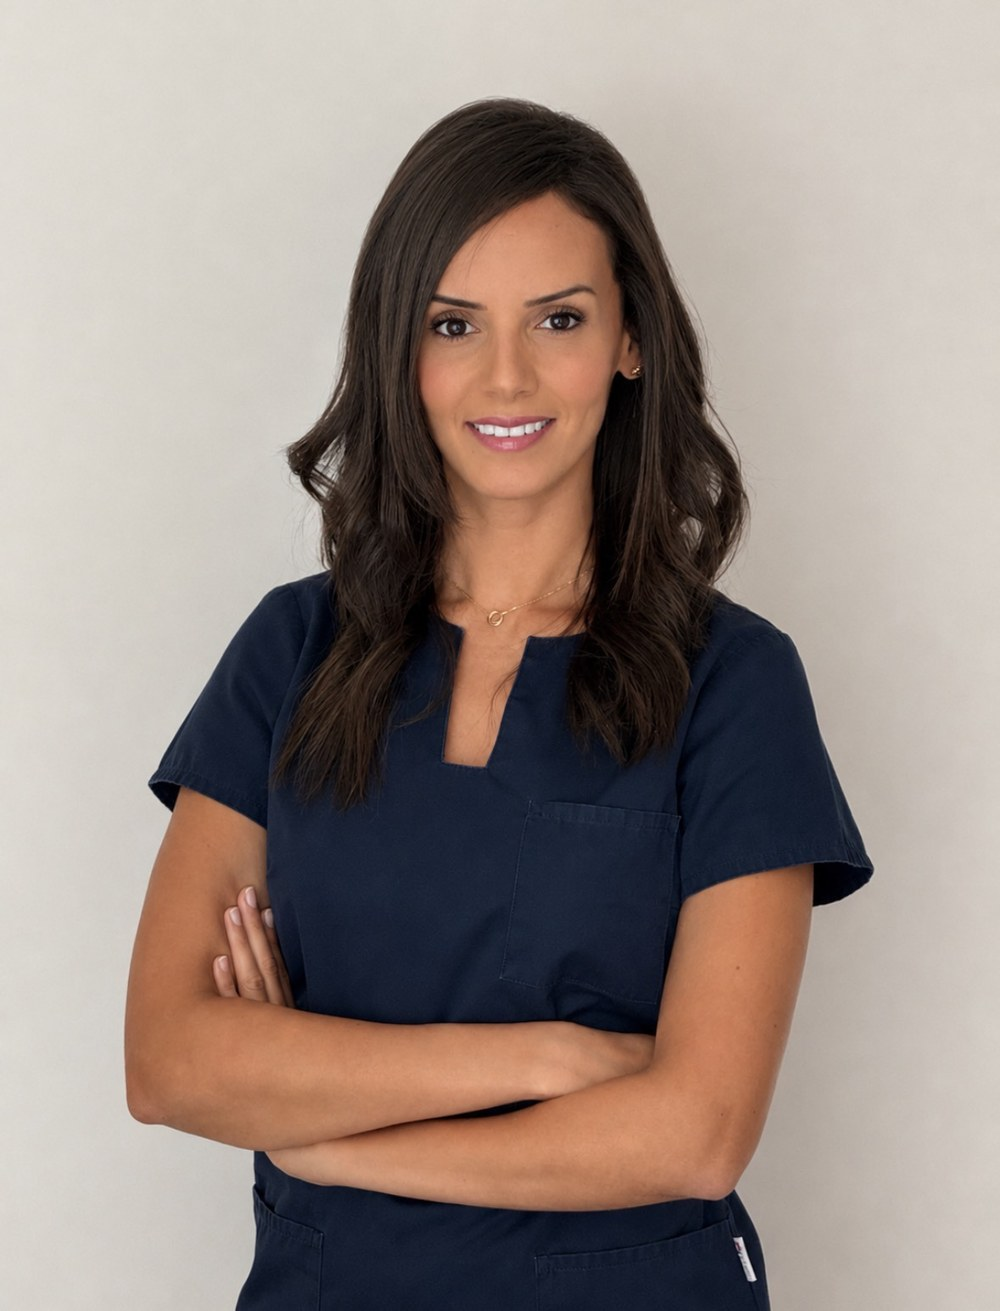
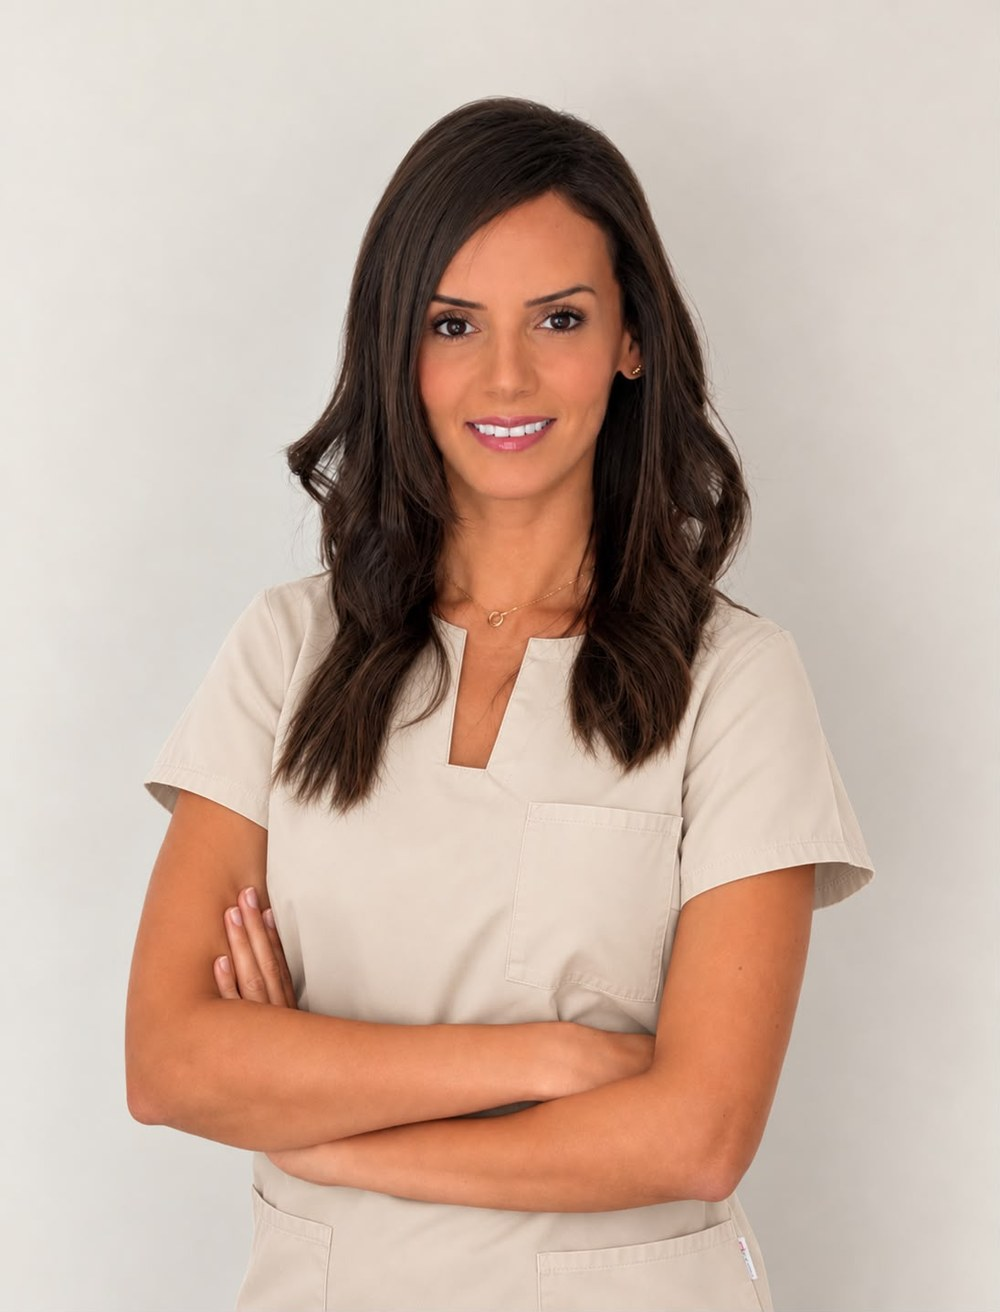
Suppression des mentions d'exclusivité + nouvelle photo du Dr IBN MEJD
- Suppression/reformulation de toutes les occurrences de "exclusif /
  exclusive / exclusivement" sur l'ensemble du site (tagline du logo,
  balises title/og/meta, JSON-LD, textes de sections, footer, page
  confidentialité). Recherche globale finale : plus aucune occurrence.
- Phrase de présentation du Dr Yamina IBN MEJD (accueil) remplacée par
  le texte exact demandé.
- Paragraphe de description en pied de page remplacé par le même texte
  exact, sur les 8 pages du site.
- Nouvelle photo portrait du Dr Yamina IBN MEJD (tenue blanche),
  intégrée sous le même nom de fichier ; cadrage et dimensions
  inchangés (contrôlés par le CSS existant, non modifié).

diff --git a/index.html b/index.html
@@ -3,11 +3,11 @@
 <head>
 <meta charset="UTF-8">
 <meta name="viewport" content="width=device-width, initial-scale=1">
-<title>Cabinet Orthéna — Orthodontie exclusive à La Talaudière | Dr Yamina IBN MEJD</title>
+<title>Cabinet Orthéna — Orthodontie à La Talaudière | Dr Yamina IBN MEJD</title>
 <meta name="description" content="Cabinet d'orthodontie du Dr Yamina IBN MEJD au Pôle Santé Victor Hugo à La Talaudière. Prise en charge de l'orthodontie des enfants et des adolescents, dans un cadre chaleureux et un plateau technique numérique.">
 <link rel="canonical" href="index.html">
 <meta property="og:type" content="website">
-<meta property="og:title" content="Cabinet Orthéna — Orthodontie exclusive">
+<meta property="og:title" content="Cabinet Orthéna — Orthodontie">
 <meta property="og:description" content="Orthodontie des enfants et des adolescents au Pôle Santé Victor Hugo, La Talaudière — Dr Yamina IBN MEJD.">
 <meta property="og:image" content="assets/img/cabinet-accueil-01-lg.jpg">
 <link rel="icon" type="image/png" sizes="512x512" href="assets/img/favicon-512.png">
@@ -21,7 +21,7 @@
   "@context": "https://schema.org",
   "@type": "Dentist",
   "name": "Cabinet Orthéna",
-  "description": "Cabinet d'orthodontie exclusivement dédié aux enfants et aux adolescents, situé au Pôle Santé Victor Hugo à La Talaudière.",
+  "description": "Cabinet d'orthodontie dédié aux enfants et aux adolescents, situé au Pôle Santé Victor Hugo à La Talaudière.",
   "medicalSpecialty": "Orthodontics",
   "address": {
     "@type": "PostalAddress",
@@ -46,7 +46,7 @@
   <div class="header-inner">
     <a href="index.html" class="brand" aria-label="Cabinet Orthéna — accueil">
       <img src="assets/img/logo-orthena-monogram@400.jpg" alt="Cabinet Orthéna" width="52" height="52">
-      <span class="brand-text">Cabinet Orthéna<small>Orthodontie exclusive</small></span>
+      <span class="brand-text">Cabinet Orthéna<small>Orthodontie</small></span>
     </a>
     <nav class="main-nav" aria-label="Navigation principale">
       <ul>
@@ -99,8 +99,8 @@
     </div>
     <div class="hero-content">
       <p class="eyebrow">Cabinet d'orthodontie — La Talaudière</p>
-      <h1 class="hero-title">Cabinet Orthéna<br><em>Orthodontie exclusive, enfants &amp; adolescents</em></h1>
-      <p class="hero-sub">Le Dr Yamina IBN MEJD consacre son exercice exclusivement à l'orthodontie des enfants et des adolescents, dans un cadre pensé pour accompagner chaque patient et sa famille avec rigueur, douceur et disponibilité.</p>
+      <h1 class="hero-title">Cabinet Orthéna<br><em>Orthodontie enfants &amp; adolescents</em></h1>
+      <p class="hero-sub">Le Dr Yamina IBN MEJD oriente sa pratique aux actes d'orthodontie pour enfants et adolescents, dans un cadre pensé pour accompagner chaque patient et sa famille avec rigueur, douceur et disponibilité.</p>
       <div class="hero-actions">
         <a href="https://www.doctolib.fr/dentiste/la-talaudiere/yamina-ibn-mejd" data-doctolib class="btn btn--primary">Prendre rendez-vous</a>
         <a href="cabinet-equipe.html" class="btn btn--ghost">Découvrir le cabinet</a>
@@ -121,7 +121,7 @@
       </div>
       <div class="intro-columns">
         <div class="intro-col intro-col--lede reveal reveal--left">
-          <p class="lede">Situé au sein du Pôle Santé Victor Hugo à La Talaudière, le Cabinet Orthéna du Dr Yamina IBN MEJD est dédié exclusivement à l'orthodontie des enfants et des adolescents.</p>
+          <p class="lede">Situé au sein du Pôle Santé Victor Hugo à La Talaudière, le Cabinet Orthéna du Dr Yamina IBN MEJD est dédié à l'orthodontie des enfants et des adolescents.</p>
         </div>
         <div class="intro-col reveal reveal--right reveal-delay-1">
           <p>Pensé dans les moindres détails, le cabinet a été conçu pour offrir aux patients et à leur famille un environnement chaleureux et apaisant. Il s'appuie sur des technologies innovantes et des équipements performants afin d'optimiser chaque étape du diagnostic et du traitement.</p>
@@ -187,9 +187,9 @@
       <div class="footer-brand-col">
         <div class="footer-brand">
           <img src="assets/img/logo-orthena-monogram@400.jpg" alt="Cabinet Orthéna" width="54" height="54">
-          <span class="footer-brand-text">Cabinet Orthéna<small>Orthodontie exclusive</small></span>
+          <span class="footer-brand-text">Cabinet Orthéna<small>Orthodontie</small></span>
         </div>
-        <p class="footer-desc">Cabinet d'orthodontie dédié exclusivement aux enfants et aux adolescents, au sein du Pôle Santé Victor Hugo à La Talaudière.</p>
+        <p class="footer-desc">Le Dr Yamina IBN MEJD oriente sa pratique aux actes d'orthodontie pour enfants et adolescents, dans un cadre pensé pour accompagner chaque patient et sa famille avec rigueur, douceur et disponibilité.</p>
         <div class="footer-cta"><a href="https://www.doctolib.fr/dentiste/la-talaudiere/yamina-ibn-mejd" data-doctolib class="btn btn--on-dark btn--sm">Prendre rendez-vous</a></div>
       </div>
       <div class="footer-col">

diff --git a/confidentialite.html b/confidentialite.html
@@ -22,7 +22,7 @@
   <div class="header-inner">
     <a href="index.html" class="brand" aria-label="Cabinet Orthéna — accueil">
       <img src="assets/img/logo-orthena-monogram@400.jpg" alt="Cabinet Orthéna" width="52" height="52">
-      <span class="brand-text">Cabinet Orthéna<small>Orthodontie exclusive</small></span>
+      <span class="brand-text">Cabinet Orthéna<small>Orthodontie</small></span>
     </a>
     <nav class="main-nav" aria-label="Navigation principale">
       <ul>
@@ -82,7 +82,7 @@
       </ul>
 
       <h2>Finalités</h2>
-      <p>Ces données sont utilisées exclusivement pour la gestion des rendez-vous, le suivi du dossier patient et l'amélioration de la qualité de la prise en charge.</p>
+      <p>Ces données sont utilisées uniquement pour la gestion des rendez-vous, le suivi du dossier patient et l'amélioration de la qualité de la prise en charge.</p>
 
       <h2>Vos droits</h2>
       <p>Conformément au Règlement Général sur la Protection des Données, vous disposez d'un droit d'accès, de rectification, d'effacement et de limitation du traitement de vos données. Pour exercer ces droits, vous pouvez contacter le cabinet.</p>
@@ -100,9 +100,9 @@
       <div class="footer-brand-col">
         <div class="footer-brand">
           <img src="assets/img/logo-orthena-monogram@400.jpg" alt="Cabinet Orthéna" width="54" height="54">
-          <span class="footer-brand-text">Cabinet Orthéna<small>Orthodontie exclusive</small></span>
+          <span class="footer-brand-text">Cabinet Orthéna<small>Orthodontie</small></span>
         </div>
-        <p class="footer-desc">Cabinet d'orthodontie dédié exclusivement aux enfants et aux adolescents, au sein du Pôle Santé Victor Hugo à La Talaudière.</p>
+        <p class="footer-desc">Le Dr Yamina IBN MEJD oriente sa pratique aux actes d'orthodontie pour enfants et adolescents, dans un cadre pensé pour accompagner chaque patient et sa famille avec rigueur, douceur et disponibilité.</p>
         <div class="footer-cta"><a href="https://www.doctolib.fr/dentiste/la-talaudiere/yamina-ibn-mejd" data-doctolib class="btn btn--on-dark btn--sm">Prendre rendez-vous</a></div>
       </div>
       <div class="footer-col">

diff --git a/cabinet-equipe.html b/cabinet-equipe.html
@@ -21,7 +21,7 @@
   <div class="header-inner">
     <a href="index.html" class="brand" aria-label="Cabinet Orthéna — accueil">
       <img src="assets/img/logo-orthena-monogram@400.jpg" alt="Cabinet Orthéna" width="52" height="52">
-      <span class="brand-text">Cabinet Orthéna<small>Orthodontie exclusive</small></span>
+      <span class="brand-text">Cabinet Orthéna<small>Orthodontie</small></span>
     </a>
     <nav class="main-nav" aria-label="Navigation principale">
       <ul>
@@ -140,7 +140,7 @@
     <div class="container">
       <div class="section-head reveal">
         <p class="eyebrow">L'équipe</p>
-        <h2>Une prise en charge exclusivement dédiée à l'orthodontie</h2>
+        <h2>Une prise en charge dédiée à l'orthodontie</h2>
       </div>
 
       <div class="doctor-block">
@@ -275,9 +275,9 @@
       <div class="footer-brand-col">
         <div class="footer-brand">
           <img src="assets/img/logo-orthena-monogram@400.jpg" alt="Cabinet Orthéna" width="54" height="54">
-          <span class="footer-brand-text">Cabinet Orthéna<small>Orthodontie exclusive</small></span>
+          <span class="footer-brand-text">Cabinet Orthéna<small>Orthodontie</small></span>
         </div>
-        <p class="footer-desc">Cabinet d'orthodontie dédié exclusivement aux enfants et aux adolescents, au sein du Pôle Santé Victor Hugo à La Talaudière.</p>
+        <p class="footer-desc">Le Dr Yamina IBN MEJD oriente sa pratique aux actes d'orthodontie pour enfants et adolescents, dans un cadre pensé pour accompagner chaque patient et sa famille avec rigueur, douceur et disponibilité.</p>
         <div class="footer-cta"><a href="https://www.doctolib.fr/dentiste/la-talaudiere/yamina-ibn-mejd" data-doctolib class="btn btn--on-dark btn--sm">Prendre rendez-vous</a></div>
       </div>
       <div class="footer-col">

diff --git a/contact.html b/contact.html
@@ -21,7 +21,7 @@
   <div class="header-inner">
     <a href="index.html" class="brand" aria-label="Cabinet Orthéna — accueil">
       <img src="assets/img/logo-orthena-monogram@400.jpg" alt="Cabinet Orthéna" width="52" height="52">
-      <span class="brand-text">Cabinet Orthéna<small>Orthodontie exclusive</small></span>
+      <span class="brand-text">Cabinet Orthéna<small>Orthodontie</small></span>
     </a>
     <nav class="main-nav" aria-label="Navigation principale">
       <ul>
@@ -168,9 +168,9 @@
       <div class="footer-brand-col">
         <div class="footer-brand">
           <img src="assets/img/logo-orthena-monogram@400.jpg" alt="Cabinet Orthéna" width="54" height="54">
-          <span class="footer-brand-text">Cabinet Orthéna<small>Orthodontie exclusive</small></span>
+          <span class="footer-brand-text">Cabinet Orthéna<small>Orthodontie</small></span>
         </div>
-        <p class="footer-desc">Cabinet d'orthodontie dédié exclusivement aux enfants et aux adolescents, au sein du Pôle Santé Victor Hugo à La Talaudière.</p>
+        <p class="footer-desc">Le Dr Yamina IBN MEJD oriente sa pratique aux actes d'orthodontie pour enfants et adolescents, dans un cadre pensé pour accompagner chaque patient et sa famille avec rigueur, douceur et disponibilité.</p>
         <div class="footer-cta"><a href="https://www.doctolib.fr/dentiste/la-talaudiere/yamina-ibn-mejd" data-doctolib class="btn btn--on-dark btn--sm">Prendre rendez-vous</a></div>
       </div>
       <div class="footer-col">

diff --git a/faq.html b/faq.html
@@ -39,7 +39,7 @@
   <div class="header-inner">
     <a href="index.html" class="brand" aria-label="Cabinet Orthéna — accueil">
       <img src="assets/img/logo-orthena-monogram@400.jpg" alt="Cabinet Orthéna" width="52" height="52">
-      <span class="brand-text">Cabinet Orthéna<small>Orthodontie exclusive</small></span>
+      <span class="brand-text">Cabinet Orthéna<small>Orthodontie</small></span>
     </a>
     <nav class="main-nav" aria-label="Navigation principale">
       <ul>
@@ -179,9 +179,9 @@
       <div class="footer-brand-col">
         <div class="footer-brand">
           <img src="assets/img/logo-orthena-monogram@400.jpg" alt="Cabinet Orthéna" width="54" height="54">
-          <span class="footer-brand-text">Cabinet Orthéna<small>Orthodontie exclusive</small></span>
+          <span class="footer-brand-text">Cabinet Orthéna<small>Orthodontie</small></span>
         </div>
-        <p class="footer-desc">Cabinet d'orthodontie dédié exclusivement aux enfants et aux adolescents, au sein du Pôle Santé Victor Hugo à La Talaudière.</p>
+        <p class="footer-desc">Le Dr Yamina IBN MEJD oriente sa pratique aux actes d'orthodontie pour enfants et adolescents, dans un cadre pensé pour accompagner chaque patient et sa famille avec rigueur, douceur et disponibilité.</p>
         <div class="footer-cta"><a href="https://www.doctolib.fr/dentiste/la-talaudiere/yamina-ibn-mejd" data-doctolib class="btn btn--on-dark btn--sm">Prendre rendez-vous</a></div>
       </div>
       <div class="footer-col">

diff --git a/traitements.html b/traitements.html
@@ -21,7 +21,7 @@
   <div class="header-inner">
     <a href="index.html" class="brand" aria-label="Cabinet Orthéna — accueil">
       <img src="assets/img/logo-orthena-monogram@400.jpg" alt="Cabinet Orthéna" width="52" height="52">
-      <span class="brand-text">Cabinet Orthéna<small>Orthodontie exclusive</small></span>
+      <span class="brand-text">Cabinet Orthéna<small>Orthodontie</small></span>
     </a>
     <nav class="main-nav" aria-label="Navigation principale">
       <ul>
@@ -236,9 +236,9 @@
       <div class="footer-brand-col">
         <div class="footer-brand">
           <img src="assets/img/logo-orthena-monogram@400.jpg" alt="Cabinet Orthéna" width="54" height="54">
-          <span class="footer-brand-text">Cabinet Orthéna<small>Orthodontie exclusive</small></span>
+          <span class="footer-brand-text">Cabinet Orthéna<small>Orthodontie</small></span>
         </div>
-        <p class="footer-desc">Cabinet d'orthodontie dédié exclusivement aux enfants et aux adolescents, au sein du Pôle Santé Victor Hugo à La Talaudière.</p>
+        <p class="footer-desc">Le Dr Yamina IBN MEJD oriente sa pratique aux actes d'orthodontie pour enfants et adolescents, dans un cadre pensé pour accompagner chaque patient et sa famille avec rigueur, douceur et disponibilité.</p>
         <div class="footer-cta"><a href="https://www.doctolib.fr/dentiste/la-talaudiere/yamina-ibn-mejd" data-doctolib class="btn btn--on-dark btn--sm">Prendre rendez-vous</a></div>
       </div>
       <div class="footer-col">

diff --git a/cookies.html b/cookies.html
@@ -22,7 +22,7 @@
   <div class="header-inner">
     <a href="index.html" class="brand" aria-label="Cabinet Orthéna — accueil">
       <img src="assets/img/logo-orthena-monogram@400.jpg" alt="Cabinet Orthéna" width="52" height="52">
-      <span class="brand-text">Cabinet Orthéna<small>Orthodontie exclusive</small></span>
+      <span class="brand-text">Cabinet Orthéna<small>Orthodontie</small></span>
     </a>
     <nav class="main-nav" aria-label="Navigation principale">
       <ul>
@@ -88,9 +88,9 @@
       <div class="footer-brand-col">
         <div class="footer-brand">
           <img src="assets/img/logo-orthena-monogram@400.jpg" alt="Cabinet Orthéna" width="54" height="54">
-          <span class="footer-brand-text">Cabinet Orthéna<small>Orthodontie exclusive</small></span>
+          <span class="footer-brand-text">Cabinet Orthéna<small>Orthodontie</small></span>
         </div>
-        <p class="footer-desc">Cabinet d'orthodontie dédié exclusivement aux enfants et aux adolescents, au sein du Pôle Santé Victor Hugo à La Talaudière.</p>
+        <p class="footer-desc">Le Dr Yamina IBN MEJD oriente sa pratique aux actes d'orthodontie pour enfants et adolescents, dans un cadre pensé pour accompagner chaque patient et sa famille avec rigueur, douceur et disponibilité.</p>
         <div class="footer-cta"><a href="https://www.doctolib.fr/dentiste/la-talaudiere/yamina-ibn-mejd" data-doctolib class="btn btn--on-dark btn--sm">Prendre rendez-vous</a></div>
       </div>
       <div class="footer-col">

diff --git a/mentions-legales.html b/mentions-legales.html
@@ -22,7 +22,7 @@
   <div class="header-inner">
     <a href="index.html" class="brand" aria-label="Cabinet Orthéna — accueil">
       <img src="assets/img/logo-orthena-monogram@400.jpg" alt="Cabinet Orthéna" width="52" height="52">
-      <span class="brand-text">Cabinet Orthéna<small>Orthodontie exclusive</small></span>
+      <span class="brand-text">Cabinet Orthéna<small>Orthodontie</small></span>
     </a>
     <nav class="main-nav" aria-label="Navigation principale">
       <ul>
@@ -99,9 +99,9 @@
       <div class="footer-brand-col">
         <div class="footer-brand">
           <img src="assets/img/logo-orthena-monogram@400.jpg" alt="Cabinet Orthéna" width="54" height="54">
-          <span class="footer-brand-text">Cabinet Orthéna<small>Orthodontie exclusive</small></span>
+          <span class="footer-brand-text">Cabinet Orthéna<small>Orthodontie</small></span>
         </div>
-        <p class="footer-desc">Cabinet d'orthodontie dédié exclusivement aux enfants et aux adolescents, au sein du Pôle Santé Victor Hugo à La Talaudière.</p>
+        <p class="footer-desc">Le Dr Yamina IBN MEJD oriente sa pratique aux actes d'orthodontie pour enfants et adolescents, dans un cadre pensé pour accompagner chaque patient et sa famille avec rigueur, douceur et disponibilité.</p>
         <div class="footer-cta"><a href="https://www.doctolib.fr/dentiste/la-talaudiere/yamina-ibn-mejd" data-doctolib class="btn btn--on-dark btn--sm">Prendre rendez-vous</a></div>
       </div>
       <div class="footer-col">

diff --git a/assets/js/config.js b/assets/js/config.js
@@ -22,7 +22,7 @@ window.ORTHENA_CONFIG = {
   // Identité
   // ---------------------------------------------------------------------
   cabinetName: "Cabinet Orthéna",
-  baseline: "Orthodontie exclusive",
+  baseline: "Orthodontie",
   practitioner: "Dr Yamina IBN MEJD",
 
   // ---------------------------------------------------------------------
